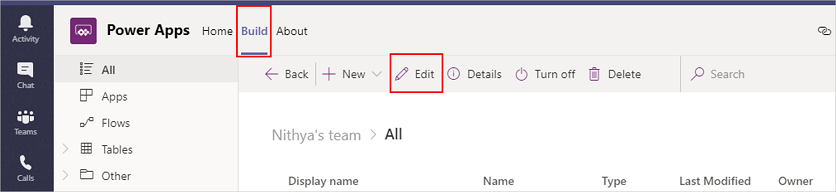
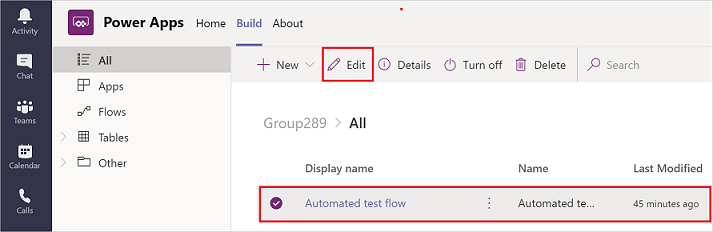
Update steps, images, etc.

diff --git a/articles/teams/use-flows-power-apps-app.md b/articles/teams/use-flows-power-apps-app.md
@@ -40,33 +40,58 @@ You can create [instant](../introduction-to-button-flows.md), [scheduled](../run
 
 1. Navigate to the **Build** tab in your Power Apps app, and then select **See all**.
 
-1. Select **New**, and then select **Flow**.
+1. Select **New**, select **Flow**, and then select the type of flow you want to create.
+
+   >[!TIP]
+   >Teams integration supports [instant](../introduction-to-button-flows.md), [scheduled](../run-scheduled-tasks.md), and [automated](../get-started-logic-flow.md) flows only.
 
    ![Create a flow](..\media\overview-teams-flows\new-flow.png)
 
-1. The Power Automate designer opens, allowing you to create and save your flows.
+1. If this is your first time creating an app, you'll have to select your location, and then select **Get started**.
 
-   ![View of the designer](..\media\overview-teams-flows\designer.png)
+   ![Select your location](..\media\overview-teams-flows\select-location.png)
 
+1. The **Build an automated flow** screen appears, allowing you to select a triger, create, and save your flow.
 
-You can only create three types of flows....
+   >[!NOTE]
+   >The screen that appears here will be different if you select instant or scheduled flow.
+
+   ![View of the designer](..\media\overview-teams-flows\build-automated-flow.png)
 
 
 ## Work with your flows
 
-1. To find your saved flows, select **Build**, and then select **Flows** in the tree view. 
+To find your saved flows:
+
+1. Sign into Teams.
+
+1. Select **Power Apps** from the navigation list on the left side.
+
+   ![Select Power Apps](..\media\overview-teams-flows\select-power-apps.png)
+
+1. Select the **Build** tab, select the team in which you created your flow, and then select **See all** in the tree view. 
 
    ![All flows](..\media\overview-teams-flows\all-flows.png)
 
 ## Customize a flow
 
-In Teams, you could have acquired flows from an installed app, or you may have created them yourself. You can update or customize either of these flows. To update your flow, select it from the recently updated list, or select **See all** > **flow**, and then select **Edit**.  
+In Teams, you could have acquired flows from an installed app, or you may have created them yourself. You can update or customize either of these flows. 
+
+1. To update a flow, select the **Build** tab, and then select **See all**.
+
+1. Select the flow that you want to edit, and then select **Edit**.  
 
    ![Customize flows](..\media\overview-teams-flows\customize-flow.png)
 
 ## View details and run history
 
-Select **Details** from the menu of the flow in which you are interested to see the run history and other details for your flows. 
+1. To view the details and run history for a flow, select the **Build** tab, and then select **See all**.
+
+1. Select the flow for which you want to view the details, and then select **Details**.
+
+   ![Customize flows](..\media\overview-teams-flows\view-details-history.png)
+
+
 
 
 
